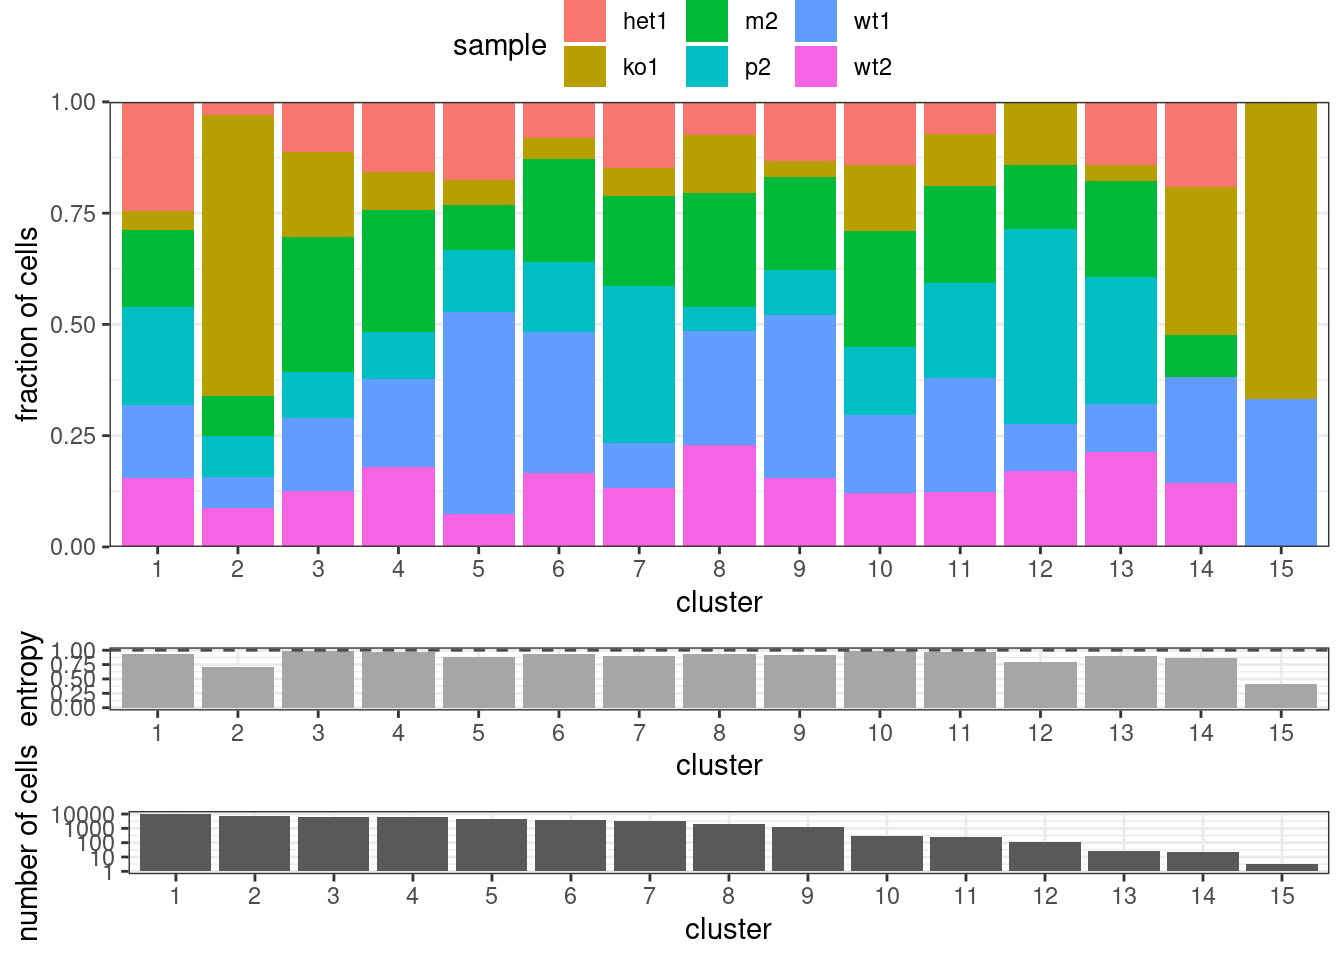
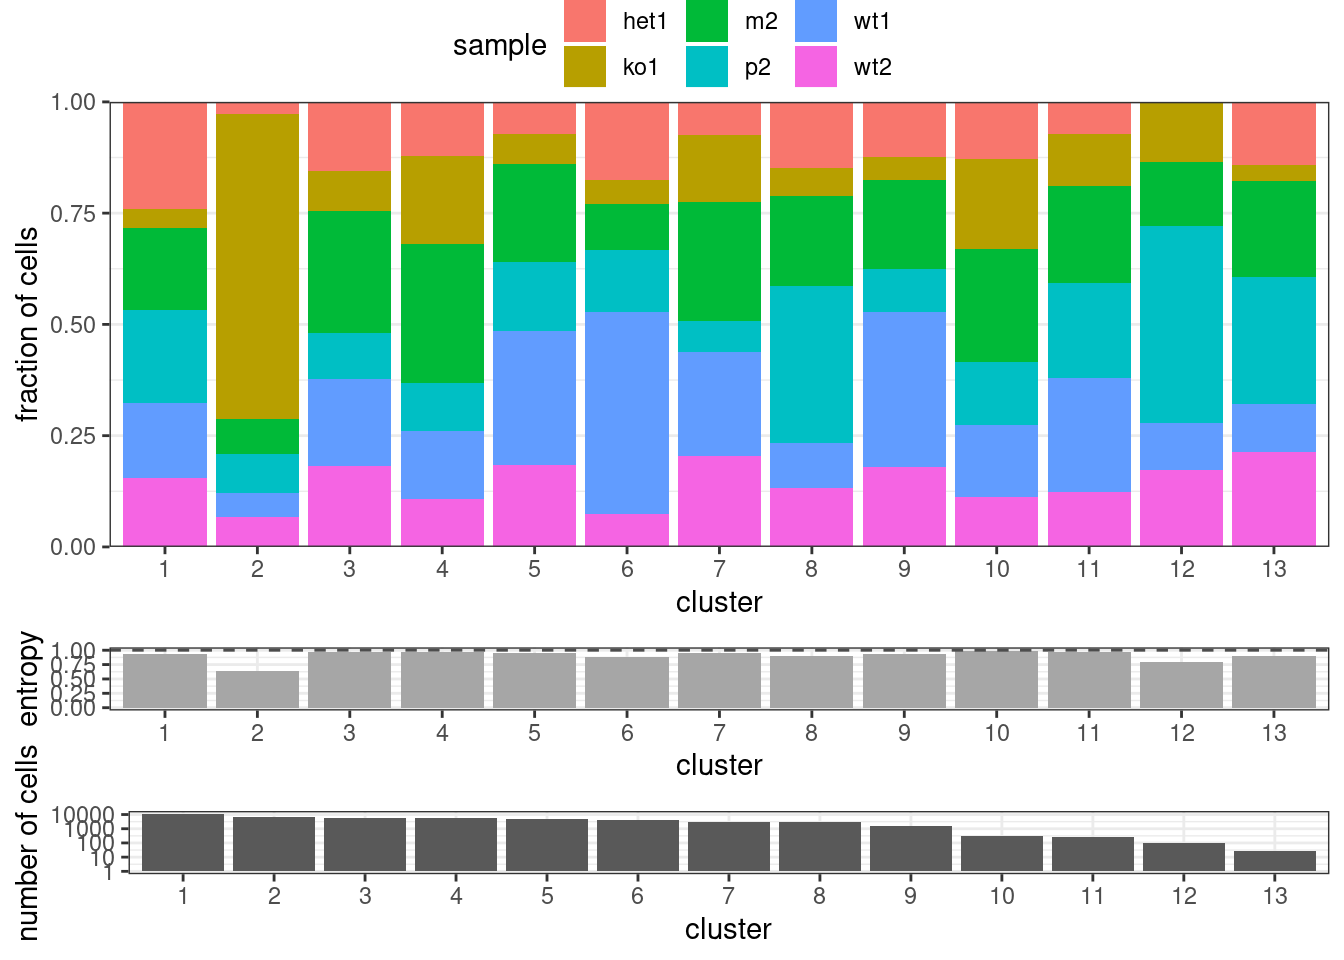
Build site.

diff --git a/docs/analysiswithconos.html b/docs/analysiswithconos.html
@@ -523,16 +523,16 @@ This reproducible <a href="http://rmarkdown.rstudio.com">R Markdown</a> analysis
 <div class="panel panel-default">
 <div class="panel-heading">
 <p class="panel-title">
-<a data-toggle="collapse" data-parent="#workflowr-checks" href="#strongRepositoryversionstrongahrefhttpsgithubcomjeprobprojectscrnaseqintegrationcomparisontreea724d2944d81ed937d59a789a8a6e9af38745b57targetblanka724d29a"> <span class="glyphicon glyphicon-ok text-success" aria-hidden="true"></span> <strong>Repository version:</strong> <a href="https://github.com/jeprob/project-scrnaseq-integration-comparison/tree/a724d2944d81ed937d59a789a8a6e9af38745b57" target="_blank">a724d29</a> </a>
+<a data-toggle="collapse" data-parent="#workflowr-checks" href="#strongRepositoryversionstrongahrefhttpsgithubcomjeprobprojectscrnaseqintegrationcomparisontreec7c806fcaa07f94b0651238fd3995cf1d1cd0e4btargetblankc7c806fa"> <span class="glyphicon glyphicon-ok text-success" aria-hidden="true"></span> <strong>Repository version:</strong> <a href="https://github.com/jeprob/project-scrnaseq-integration-comparison/tree/c7c806fcaa07f94b0651238fd3995cf1d1cd0e4b" target="_blank">c7c806f</a> </a>
 </p>
 </div>
[2 lines of base64/hex data omitted]
 <div class="panel-body">
 <p>
 Great! You are using Git for version control. Tracking code development and connecting the code version to the results is critical for reproducibility.
 </p>
 <p>
-The results in this page were generated with repository version <a href="https://github.com/jeprob/project-scrnaseq-integration-comparison/tree/a724d2944d81ed937d59a789a8a6e9af38745b57" target="_blank">a724d29</a>. See the <em>Past versions</em> tab to see a history of the changes made to the R Markdown and HTML files.
+The results in this page were generated with repository version <a href="https://github.com/jeprob/project-scrnaseq-integration-comparison/tree/c7c806fcaa07f94b0651238fd3995cf1d1cd0e4b" target="_blank">c7c806f</a>. See the <em>Past versions</em> tab to see a history of the changes made to the R Markdown and HTML files.
 </p>
 <p>
 Note that you need to be careful to ensure that all relevant files for the analysis have been committed to Git prior to generating the results (you can use <code>wflow_publish</code> or <code>wflow_git_commit</code>). workflowr only checks the R Markdown file, but you know if there are other scripts or data files that it depends on. Below is the status of the Git repository when the results were generated:
@@ -541,9 +541,6 @@ Note that you need to be careful to ensure that all relevant files for the analy
 Ignored files:
     Ignored:    .RData
     Ignored:    .Rhistory
-
-Unstaged changes:
-    Modified:   analysis/analysiswithseurat.Rmd
 
 </code></pre>
 <p>
@@ -582,6 +579,40 @@ Message
 </tr>
 </thead>
 <tbody>
+<tr>
+<td>
+Rmd
+</td>
+<td>
+<a href="https://github.com/jeprob/project-scrnaseq-integration-comparison/blob/c7c806fcaa07f94b0651238fd3995cf1d1cd0e4b/analysis/analysiswithconos.Rmd" target="_blank">c7c806f</a>
+</td>
+<td>
+jeprob
+</td>
+<td>
+2021-01-10
+</td>
+<td>
+conos final
+</td>
+</tr>
+<tr>
+<td>
+html
+</td>
+<td>
+<a href="https://rawcdn.githack.com/jeprob/project-scrnaseq-integration-comparison/531cb2be78889da4a3a83fba18c2793aebeda2ed/docs/analysiswithconos.html" target="_blank">531cb2b</a>
+</td>
+<td>
+jeprob
+</td>
+<td>
+2021-01-10
+</td>
+<td>
+Build site.
+</td>
+</tr>
 <tr>
 <td>
 Rmd
@@ -893,7 +924,6 @@ jeprob
 <pre class="r"><code>pbmc.con$findCommunities(method=leiden.community, resolution=0.8)</code></pre>
 <p>As a next step, the joint graph can be used to visualize the integration of datasets and the clustering.</p>
 <pre class="r"><code>pbmc.con$plotGraph(color.by=&#39;sample&#39;, mark.groups=FALSE, alpha=0.1, show.legend=TRUE)</code></pre>
-<pre><code>Estimating embeddings.</code></pre>
 <p><img src="figure/analysiswithconos.Rmd/unnamed-chunk-9-1.png" width="672" style="display: block; margin: auto;" /></p>
 <p>
 <button type="button" class="btn btn-default btn-xs btn-workflowr btn-workflowr-fig" data-toggle="collapse" data-target="#fig-unnamed-chunk-9-1">
@@ -917,6 +947,17 @@ Date
 </tr>
 </thead>
 <tbody>
+<tr>
+<td>
+<a href="https://github.com/jeprob/project-scrnaseq-integration-comparison/blob/531cb2be78889da4a3a83fba18c2793aebeda2ed/docs/figure/analysiswithconos.Rmd/unnamed-chunk-9-1.png" target="_blank">531cb2b</a>
+</td>
+<td>
+jeprob
+</td>
+<td>
+2021-01-10
+</td>
+</tr>
 <tr>
 <td>
 <a href="https://github.com/jeprob/project-scrnaseq-integration-comparison/blob/834cd602bed220eb4cf670252bdc91fb4eb0e7d4/docs/figure/analysiswithconos.Rmd/unnamed-chunk-9-1.png" target="_blank">834cd60</a>
@@ -992,6 +1033,17 @@ Date
 <tbody>
 <tr>
 <td>
+<a href="https://github.com/jeprob/project-scrnaseq-integration-comparison/blob/531cb2be78889da4a3a83fba18c2793aebeda2ed/docs/figure/analysiswithconos.Rmd/unnamed-chunk-10-1.png" target="_blank">531cb2b</a>
+</td>
+<td>
+jeprob
+</td>
+<td>
+2021-01-10
+</td>
+</tr>
+<tr>
+<td>
 <a href="https://github.com/jeprob/project-scrnaseq-integration-comparison/blob/834cd602bed220eb4cf670252bdc91fb4eb0e7d4/docs/figure/analysiswithconos.Rmd/unnamed-chunk-10-1.png" target="_blank">834cd60</a>
 </td>
 <td>
@@ -1038,7 +1090,7 @@ jeprob
 </table>
 </div>
 </div>
-<p>We find that there are 13 clusters identified in total.</p>
+<p>We find that there are 15 clusters identified in total.</p>
 <p>Next, cells in the original t-SNE embedding were plotted for each panel and cell labels obtained from the joint clustering were added.</p>
 <pre class="r"><code>pbmc.con$plotPanel(font.size=4)</code></pre>
 <p><img src="figure/analysiswithconos.Rmd/unnamed-chunk-11-1.png" width="672" style="display: block; margin: auto;" /></p>
@@ -1064,6 +1116,17 @@ Date
 </tr>
 </thead>
 <tbody>
+<tr>
+<td>
+<a href="https://github.com/jeprob/project-scrnaseq-integration-comparison/blob/531cb2be78889da4a3a83fba18c2793aebeda2ed/docs/figure/analysiswithconos.Rmd/unnamed-chunk-11-1.png" target="_blank">531cb2b</a>
+</td>
+<td>
+jeprob
+</td>
+<td>
+2021-01-10
+</td>
+</tr>
 <tr>
 <td>
 <a href="https://github.com/jeprob/project-scrnaseq-integration-comparison/blob/834cd602bed220eb4cf670252bdc91fb4eb0e7d4/docs/figure/analysiswithconos.Rmd/unnamed-chunk-11-1.png" target="_blank">834cd60</a>
@@ -1139,6 +1202,17 @@ Date
 <tbody>
 <tr>
 <td>
+<a href="https://github.com/jeprob/project-scrnaseq-integration-comparison/blob/531cb2be78889da4a3a83fba18c2793aebeda2ed/docs/figure/analysiswithconos.Rmd/unnamed-chunk-12-1.png" target="_blank">531cb2b</a>
+</td>
+<td>
+jeprob
+</td>
+<td>
+2021-01-10
+</td>
+</tr>
+<tr>
+<td>
 <a href="https://github.com/jeprob/project-scrnaseq-integration-comparison/blob/834cd602bed220eb4cf670252bdc91fb4eb0e7d4/docs/figure/analysiswithconos.Rmd/unnamed-chunk-12-1.png" target="_blank">834cd60</a>
 </td>
 <td>
@@ -1185,7 +1259,7 @@ jeprob
 </table>
 </div>
 </div>
-<p>Many interesting things can be observed in this plot. The number of cells belonging to the clusters has a big range from many 1000 to roughly 50 cells. Cells from smaller clusters still seemed to be observed in all samples, except for cluster 12 which does not appear in het1. It is notable that most of the cells in ko1 belong either to cluster 2. Furthermore, there is no obvious trend, judged by eye, that wildtype sample cells seemed to be differently distributed than the remaining samples het1, m2 and p2.</p>
+<p>Many interesting things can be observed in this plot. The number of cells belonging to the clusters has a big range from many 1000 to less than 10 cells. Cells from smaller clusters still seemed to be observed in most samples, except for cluster 12 which does not appear in het1, cluster 14 which does not appear in p2 and cluster 15 which only appears inko2 and wt1. We also find that most of the cells in ko1 belong to cluster 2. Furthermore, there is no obvious trend, judged by eye, that wildtype sample cells seemed to be differently distributed than the remaining samples het1, m2 and p2.</p>
 <p>Further downstream analysis such as gene expression visualization or hierarchical community structure generation would be possible with Conos. For more information visit <a href="https://github.com/kharchenkolab/conos/blob/master/vignettes/walkthrough.md">this vignette</a>.</p>
 <br>
 <p>
